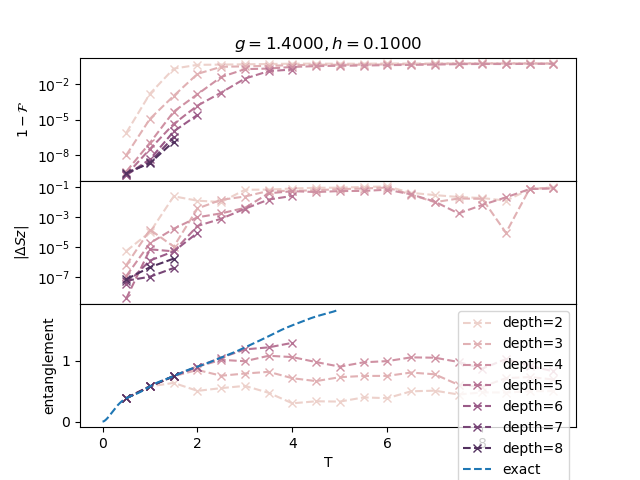
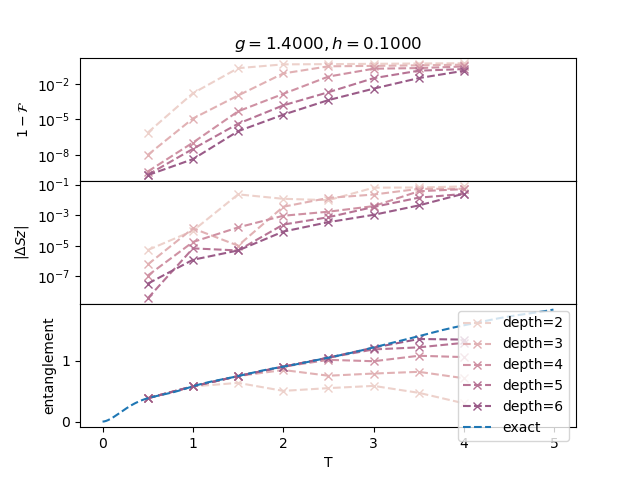
update plot

diff --git a/3_state_approx/plot_end.py b/3_state_approx/plot_end.py
@@ -23,14 +23,14 @@ if __name__ == '__main__':
     exact_E = np.load('../2_time_evolution/data_tebd/1d_TFI_g%.4f_h%.4f/L31/mps_chi%d_1st_energy.npy' % (g, h, chi))
     exact_t = np.load('../2_time_evolution/data_tebd/1d_TFI_g%.4f_h%.4f/L31/mps_chi%d_1st_dt.npy' % (g, h, chi))
 
-    for idx, depth in enumerate([2, 3, 4, 5, 6, 7, 8]):
+    for idx, depth in enumerate([2, 3, 4, 5, 6,]):
         color = color_set[2][idx]
         fidelity_error_list = []
         diff_sz_list = []
         ent_list = []
         t_list = []
 
-        for idx in range(0,100):
+        for idx in range(0, 41):
             try:
                 T = idx * 0.1
                 exact_idx = int(idx * 10)
